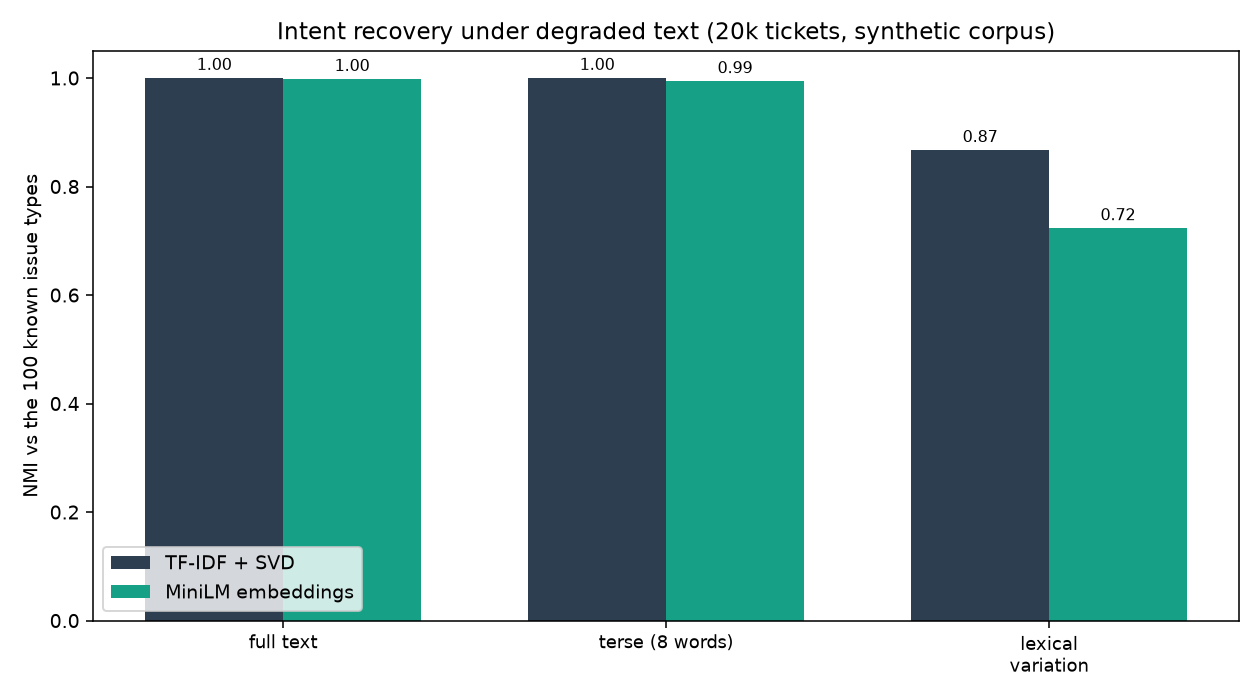
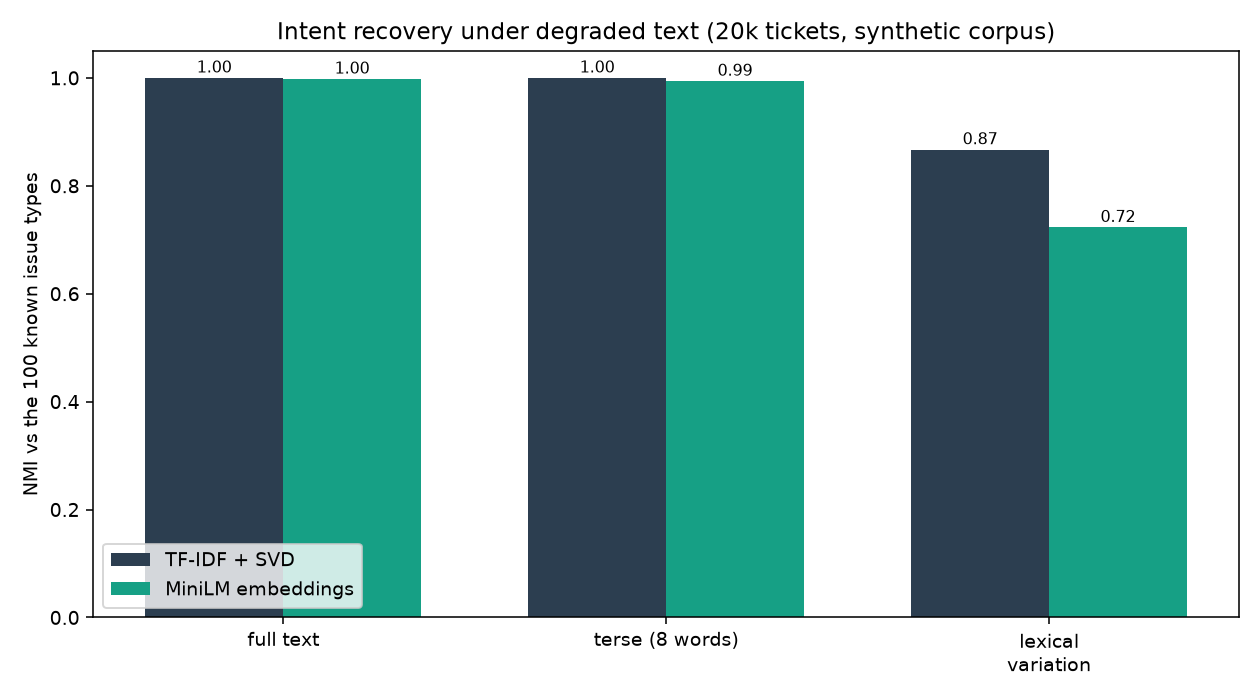
fix(phase 2b): runnable from the repo, chart in code, README entry
- 03b_embeddings.py uses repo-relative paths (was hard-wired to the
  agent's own machine) and now draws charts/phase2b_methods.png itself.
- Saves the time to build each representation (represent_seconds), so
  the speed claim is backed by the data; timing text made machine-neutral.
- Metrics note now says the lexical-variation condition is the only one
  that separates the methods (terse was at ceiling for both).
- Removed a dead line, the stray "MEDIA note", and the unsourced
  "1,000 imported categories" figure.
- README: phase 2b findings link, headline, run step and outputs.

Scores unchanged on rerun (NMI 1.000/0.998, 1.000/0.994, 0.867/0.723).

diff --git a/scripts/03b_embeddings.py b/scripts/03b_embeddings.py
@@ -30,9 +30,14 @@ from sklearn.metrics import adjusted_rand_score, normalized_mutual_info_score
 from sklearn.preprocessing import normalize
 from sentence_transformers import SentenceTransformer
 
+import matplotlib
+matplotlib.use("Agg")
+import matplotlib.pyplot as plt
+
 torch.set_num_threads(max(1, torch.get_num_threads()))
-SCRATCH = Path("/workspace/hermes/cache/scratch/delivery-analytics")
-OUT = Path("/opt/data/delivery-analytics")
+ROOT = Path(__file__).resolve().parents[1]   # repo root; tickets.parquet lives here (see README)
+SCRATCH = ROOT
+OUT = ROOT
 SEED, N = 42, 20_000
 
 BOILER = [r"hi team", r"hi there", r"hello,?", r"hey,?", r"good morning,?", r"dear (support|team)",
@@ -100,26 +105,57 @@ for cond, col in (("full", "clean"),
                   ("terse (first 8 words)", "terse"),
                   ("lexical variation (50% drop + shuffle)", "vary")):
     print(f"\n== {cond} text ==")
+    t0 = time.time()
     vec = TfidfVectorizer(max_features=30_000, ngram_range=(1, 2), min_df=2, sublinear_tf=True)
     X = vec.fit_transform(s[col])
     Z_tfidf = normalize(TruncatedSVD(n_components=150, random_state=SEED).fit_transform(X))
-    results.append(evaluate(Z_tfidf, f"tfidf+svd [{cond}]"))
+    rep_s = round(time.time() - t0, 1)
+    results.append({**evaluate(Z_tfidf, f"tfidf+svd [{cond}]"),
+                    "condition": cond, "representation": "tfidf+svd", "represent_seconds": rep_s})
 
     t0 = time.time()
     emb = model.encode(s[col].tolist(), batch_size=128, show_progress_bar=False,
                        convert_to_numpy=True, normalize_embeddings=True)
-    print(f"  embeddings computed in {time.time()-t0:.0f}s (dim {emb.shape[1]})")
-    results.append(evaluate(emb, f"minilm embeddings [{cond}]"))
+    rep_s = round(time.time() - t0, 1)
+    print(f"  embeddings computed in {rep_s:.0f}s (dim {emb.shape[1]})")
+    results.append({**evaluate(emb, f"minilm embeddings [{cond}]"),
+                    "condition": cond, "representation": "minilm", "represent_seconds": rep_s})
 
+# "seconds" = k-means time; "represent_seconds" = time to build the text representation.
+# Timings depend on the machine; the scores do not.
 res = pd.DataFrame(results)
 res.to_csv(OUT / "data/phase2b_method_comparison.csv", index=False)
 json.dump({"sample": int(len(s)), "issue_types": int(k),
            "model": "sentence-transformers/all-MiniLM-L6-v2",
            "results": results,
-           "note": "synthetic corpus has one canonical sentence per issue type, so both methods are near-ceiling on full text; the terse condition is the informative one"},
+           "note": "synthetic corpus has one canonical sentence per issue type, so both methods are "
+                   "near-ceiling on full and terse text; only the lexical-variation condition separates them, "
+                   "and that condition is biased against the embedding model (word order destroyed)"},
           open(OUT / "data/phase2b_metrics.json", "w"), indent=2)
 
-piv = res.pivot(index="method", columns="method", values="nmi") if False else None
 print("\n=== summary ===")
 print(res.pivot_table(index=["method"], values=["nmi", "ari", "purity"]).round(3).to_string())
-print("\nwrote data/phase2b_method_comparison.csv + data/phase2b_metrics.json")
+
+# ---------- chart ----------
+conds = ["full", "terse (first 8 words)", "lexical variation (50% drop + shuffle)"]
+labels = ["full text", "terse (8 words)", "lexical\nvariation"]
+nmi = res.pivot(index="condition", columns="representation", values="nmi").loc[conds]
+x = np.arange(len(conds))
+w = 0.36
+fig, ax = plt.subplots(figsize=(9, 5))
+for off, rep, name, colour in ((-w / 2, "tfidf+svd", "TF-IDF + SVD", "#2c3e50"),
+                               (w / 2, "minilm", "MiniLM embeddings", "#16a085")):
+    ax.bar(x + off, nmi[rep], w, label=name, color=colour)
+    for xi, v in zip(x + off, nmi[rep]):
+        ax.text(xi, v + 0.01, f"{v:.2f}", ha="center", fontsize=8)
+ax.set_xticks(x)
+ax.set_xticklabels(labels)
+ax.set_ylim(0, 1.05)
+ax.set_ylabel("NMI vs the 100 known issue types")
+ax.set_title(f"Intent recovery under degraded text ({len(s) // 1000}k tickets, synthetic corpus)")
+ax.legend(loc="lower left")
+plt.tight_layout()
+plt.savefig(OUT / "charts/phase2b_methods.png", dpi=140)
+plt.close()
+
+print("\nwrote data/phase2b_method_comparison.csv, data/phase2b_metrics.json, charts/phase2b_methods.png")

diff --git a/FINDINGS-PHASE2B.md b/FINDINGS-PHASE2B.md
@@ -15,11 +15,11 @@ Each evaluated under three text conditions: full cleaned text; **terse** (first 
 | terse (8 words) | **1.000** | 0.994 | 1.000 | 0.982 |
 | lexical variation | **0.867** | 0.723 | 0.825 | 0.578 |
 
-MEDIA note: chart in `charts/phase2b_methods.png`.
+![Intent recovery under degraded text](charts/phase2b_methods.png)
 
 ## What this shows
 
-1. **On templated text, the corpus cannot rank the methods.** Both sit at the ceiling; TF-IDF is marginally ahead and 30× cheaper (1 s vs ~35 s for 20k tickets on two CPU threads). No GPU was needed — the whole comparison ran locally.
+1. **On templated text, the corpus cannot rank the methods.** Both sit at the ceiling; TF-IDF is marginally ahead and far cheaper: about 1–2 s to build for 20k tickets, against 35 s to 150 s for the embeddings depending on the CPU (saved per run in `represent_seconds`). No GPU was needed — the whole comparison ran locally.
 2. **Under word-level damage TF-IDF degrades more slowly** (0.867 vs 0.723). But read the cause before drawing a conclusion: the shuffle condition destroys **word order**, and a sentence model is trained on natural order, so this condition is out-of-distribution for embeddings and in-distribution for a bag-of-words model. TF-IDF losing bigrams still keeps the distinctive nouns — which is exactly what this generator encodes.
 3. **So the honest answer is: unknown.** The test is biased against the semantic model, and it does not license "TF-IDF is better for real tickets". What it does show is that neither representation can be validated on a corpus where each intent has one canonical sentence.
 
@@ -33,8 +33,8 @@ MEDIA note: chart in `charts/phase2b_methods.png`.
 
 - **Default to TF-IDF + SVD**: deterministic, milliseconds, no model download, no GPU, and explainable to a non-technical reader ("these are the words that define the group")
 - **Reach for embeddings only when the lexicon genuinely differs** — if the same intent appears under unrelated vocabulary (German/English mix, product-specific jargon, spelling variants), bag-of-words will split it while embeddings merge it. Decide that by reading 50 tickets, not by benchmarking
-- **Either way, the intent taxonomy matters more than the model.** A 20–30 family taxonomy over 1,000 imported categories changes the analysis far more than choosing between two clustering representations
+- **Either way, the intent taxonomy matters more than the model.** A 20–30 family taxonomy over hundreds of imported categories (the phase-1 log alone has 245 subcategories) changes the analysis far more than choosing between two clustering representations
 
 ## Compute
 
-The entire phase 2b ran on this machine's CPU in about three minutes (embeddings: 37 s for 20k texts on two threads). **No Colab units were consumed, and none were needed** — which is the useful conclusion for the GPU-credits question: intent clustering is not a GPU workload. The credits are only justified by an actual training job.
+The entire phase 2b runs on an ordinary CPU in three to six minutes (embeddings: 37 s for 20k texts on the two-thread machine it was first run on, about two minutes per condition on a laptop). **No Colab units were consumed, and none were needed** — which is the useful conclusion for the GPU-credits question: intent clustering is not a GPU workload. The credits are only justified by an actual training job.

diff --git a/README.md b/README.md
@@ -6,6 +6,7 @@ Two datasets, one question, answered in numbers: effort per contact driver, the 
 
 - **[`FINDINGS.md`](FINDINGS.md)** — phase 1: effort economics on a real ITSM event log
 - **[`FINDINGS-PHASE2.md`](FINDINGS-PHASE2.md)** — phase 2: named intents, automation feasibility, savings range
+- **[`FINDINGS-PHASE2B.md`](FINDINGS-PHASE2B.md)** — phase 2b: does the clustering method survive messier text?
 
 ## Headline results
 
@@ -23,6 +24,12 @@ Two datasets, one question, answered in numbers: effort per contact driver, the 
 - Two families — **security (17.7%)** and **refunds (15.7%)** — are **33% of effort from 17% of volume**, and are policy work, not technical
 - Effort split: **automatable 9.6%** (from 31% of tickets), **assisted 65.6%**, **human-only 24.9%**
 - Automating 40 / 60 / 80% of the automatable share removes **4% / 6% / 8%** of total elapsed effort — the automatable intents are the *fast* ones, so the real win there is contact volume, not hours
+
+**Phase 2b — method check** (20,000 of the same tickets)
+
+- TF-IDF and sentence embeddings both recover the 100 issue types almost perfectly on full and terse text (NMI ≥ 0.99), so this corpus cannot rank them
+- With half the words dropped and the rest shuffled, TF-IDF holds up better (NMI 0.87 vs 0.72) — but that test is biased against the embedding model, so it does not show TF-IDF is better on real tickets
+- Clustering is not a GPU job: the whole comparison runs on a laptop CPU in a few minutes
 
 ## Data
 
@@ -47,6 +54,10 @@ python scripts/02_economics.py
 # phase 2
 curl -L -o tickets.parquet "https://huggingface.co/datasets/s2pidape/support-ticket-dataset/resolve/refs%2Fconvert%2Fparquet/humans_only/train/0000.parquet"
 python scripts/03_intents.py
+
+# phase 2b (uses tickets.parquet from phase 2; downloads the MiniLM model on first run)
+pip install sentence-transformers
+python scripts/03b_embeddings.py
 ```
 
 ## Outputs
@@ -59,11 +70,14 @@ data/effort_by_group.csv
 data/intents_economics.csv         # phase 2: per-intent volume, effort, SLA, feasibility
 data/effort_by_intent_family.csv
 data/phase2_metrics.json           # validation + savings scenarios, machine-readable
+data/phase2b_method_comparison.csv # phase 2b: NMI / ARI / purity and timings per method and condition
+data/phase2b_metrics.json
 charts/pareto_effort_by_category.png
 charts/pareto_curve.png
 charts/sla_by_category.png
 charts/intents_pareto.png          # top intents coloured by feasibility
 charts/feasibility_split.png
+charts/phase2b_methods.png         # TF-IDF vs embeddings under degraded text
 ```
 
 ## Method notes
